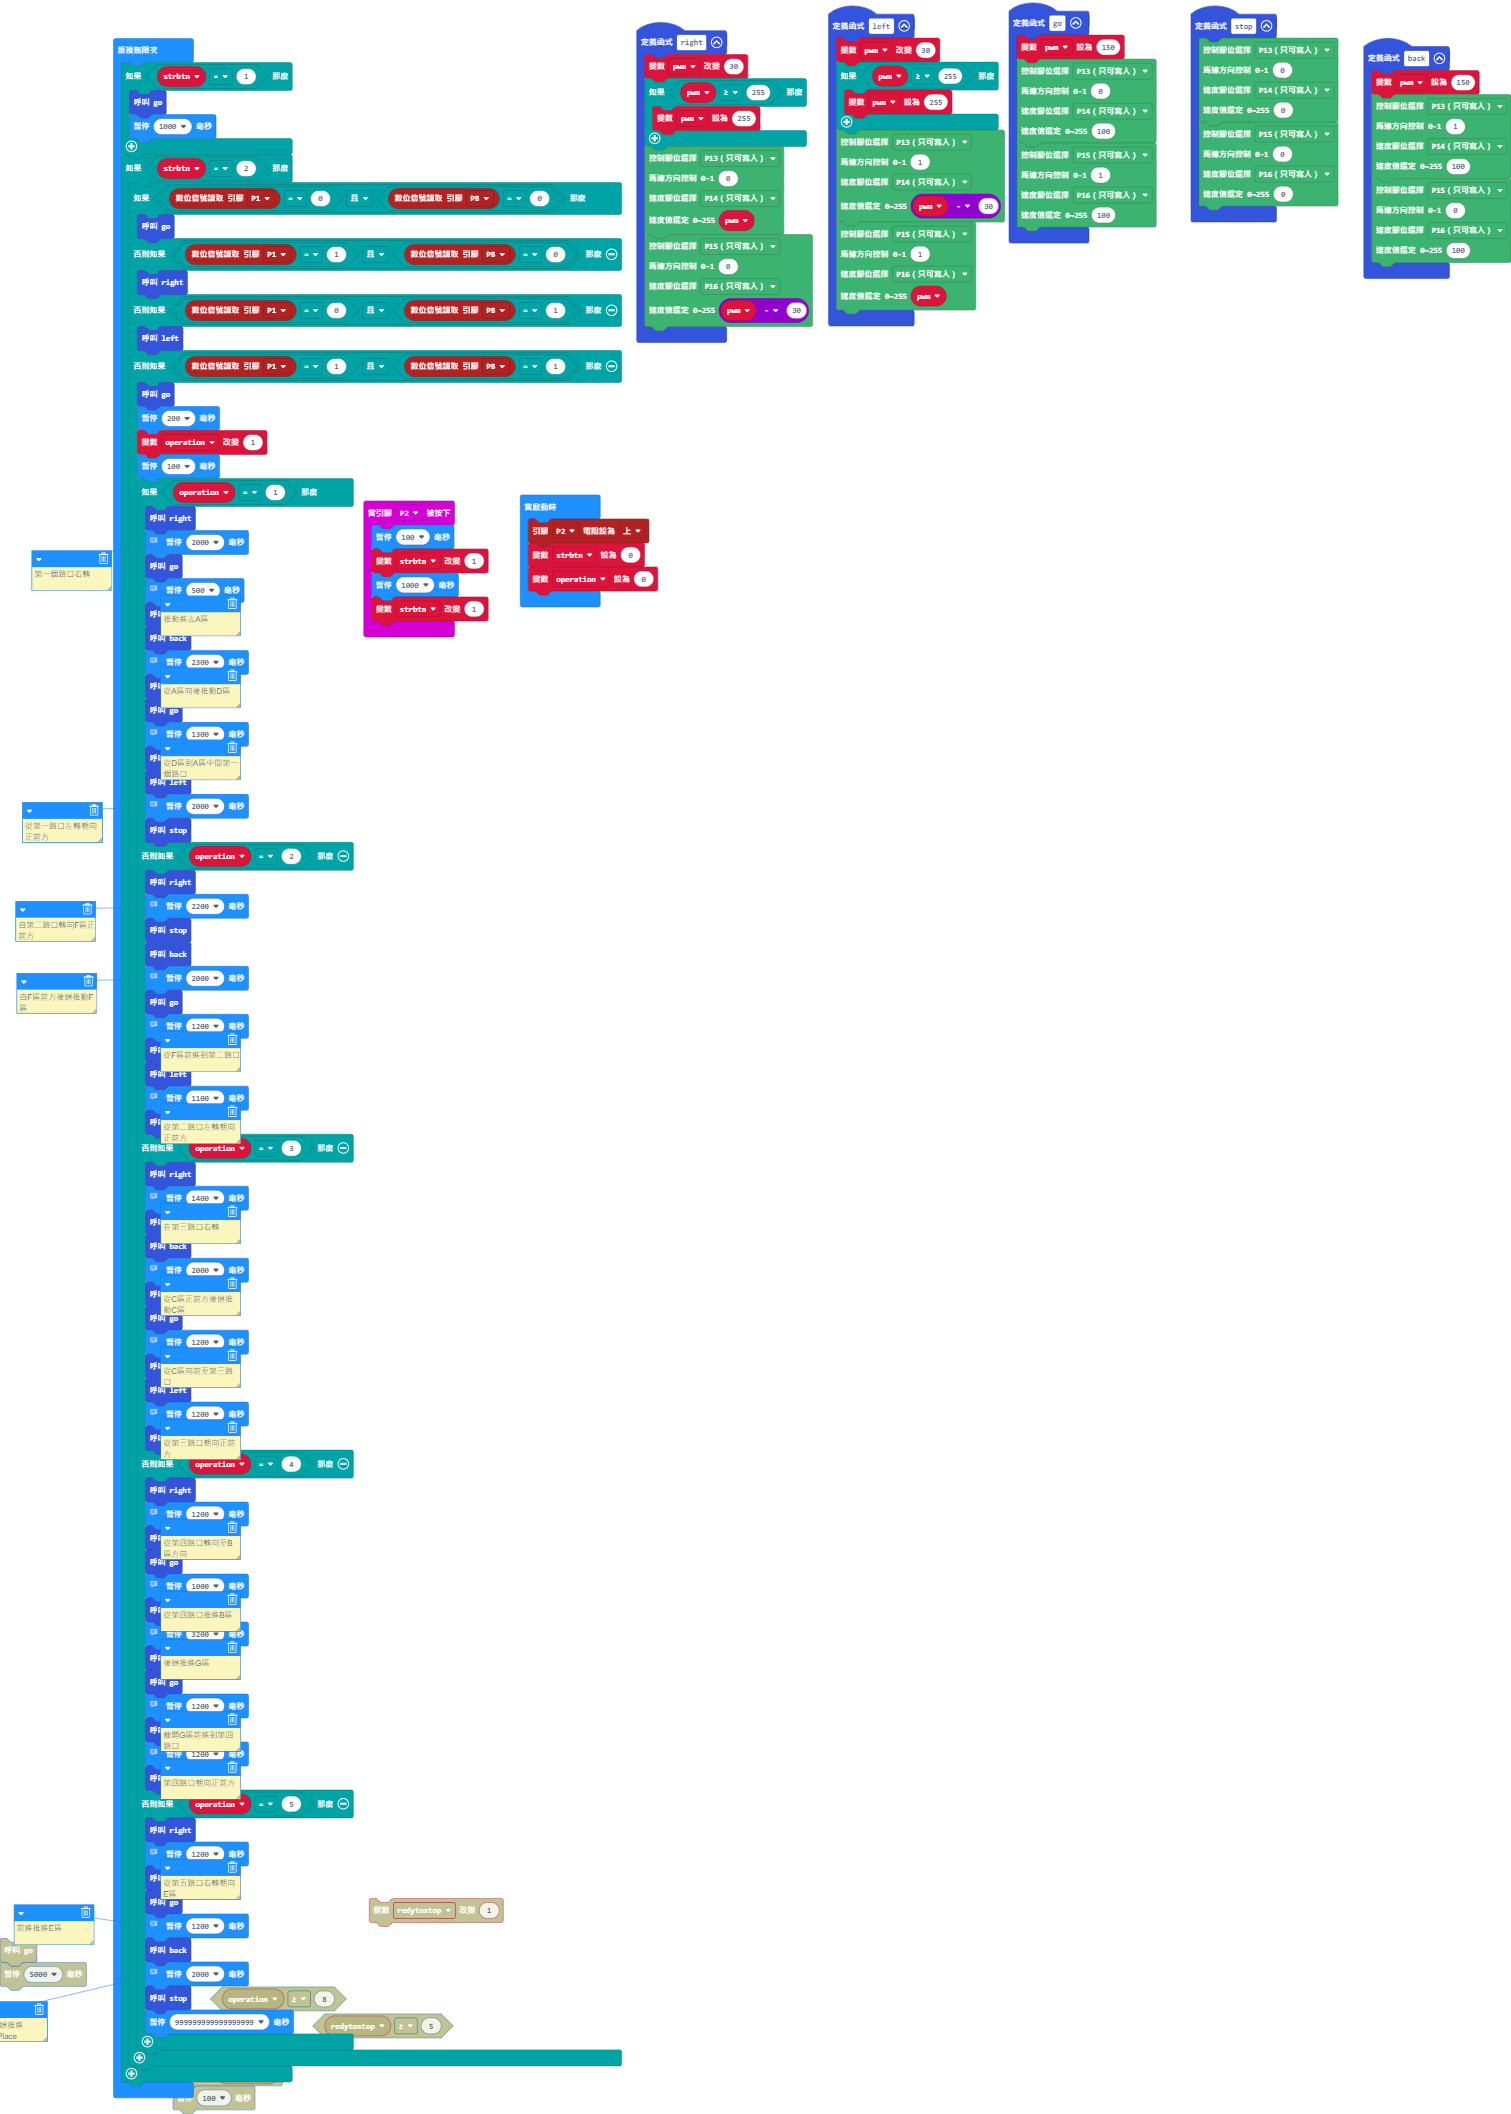
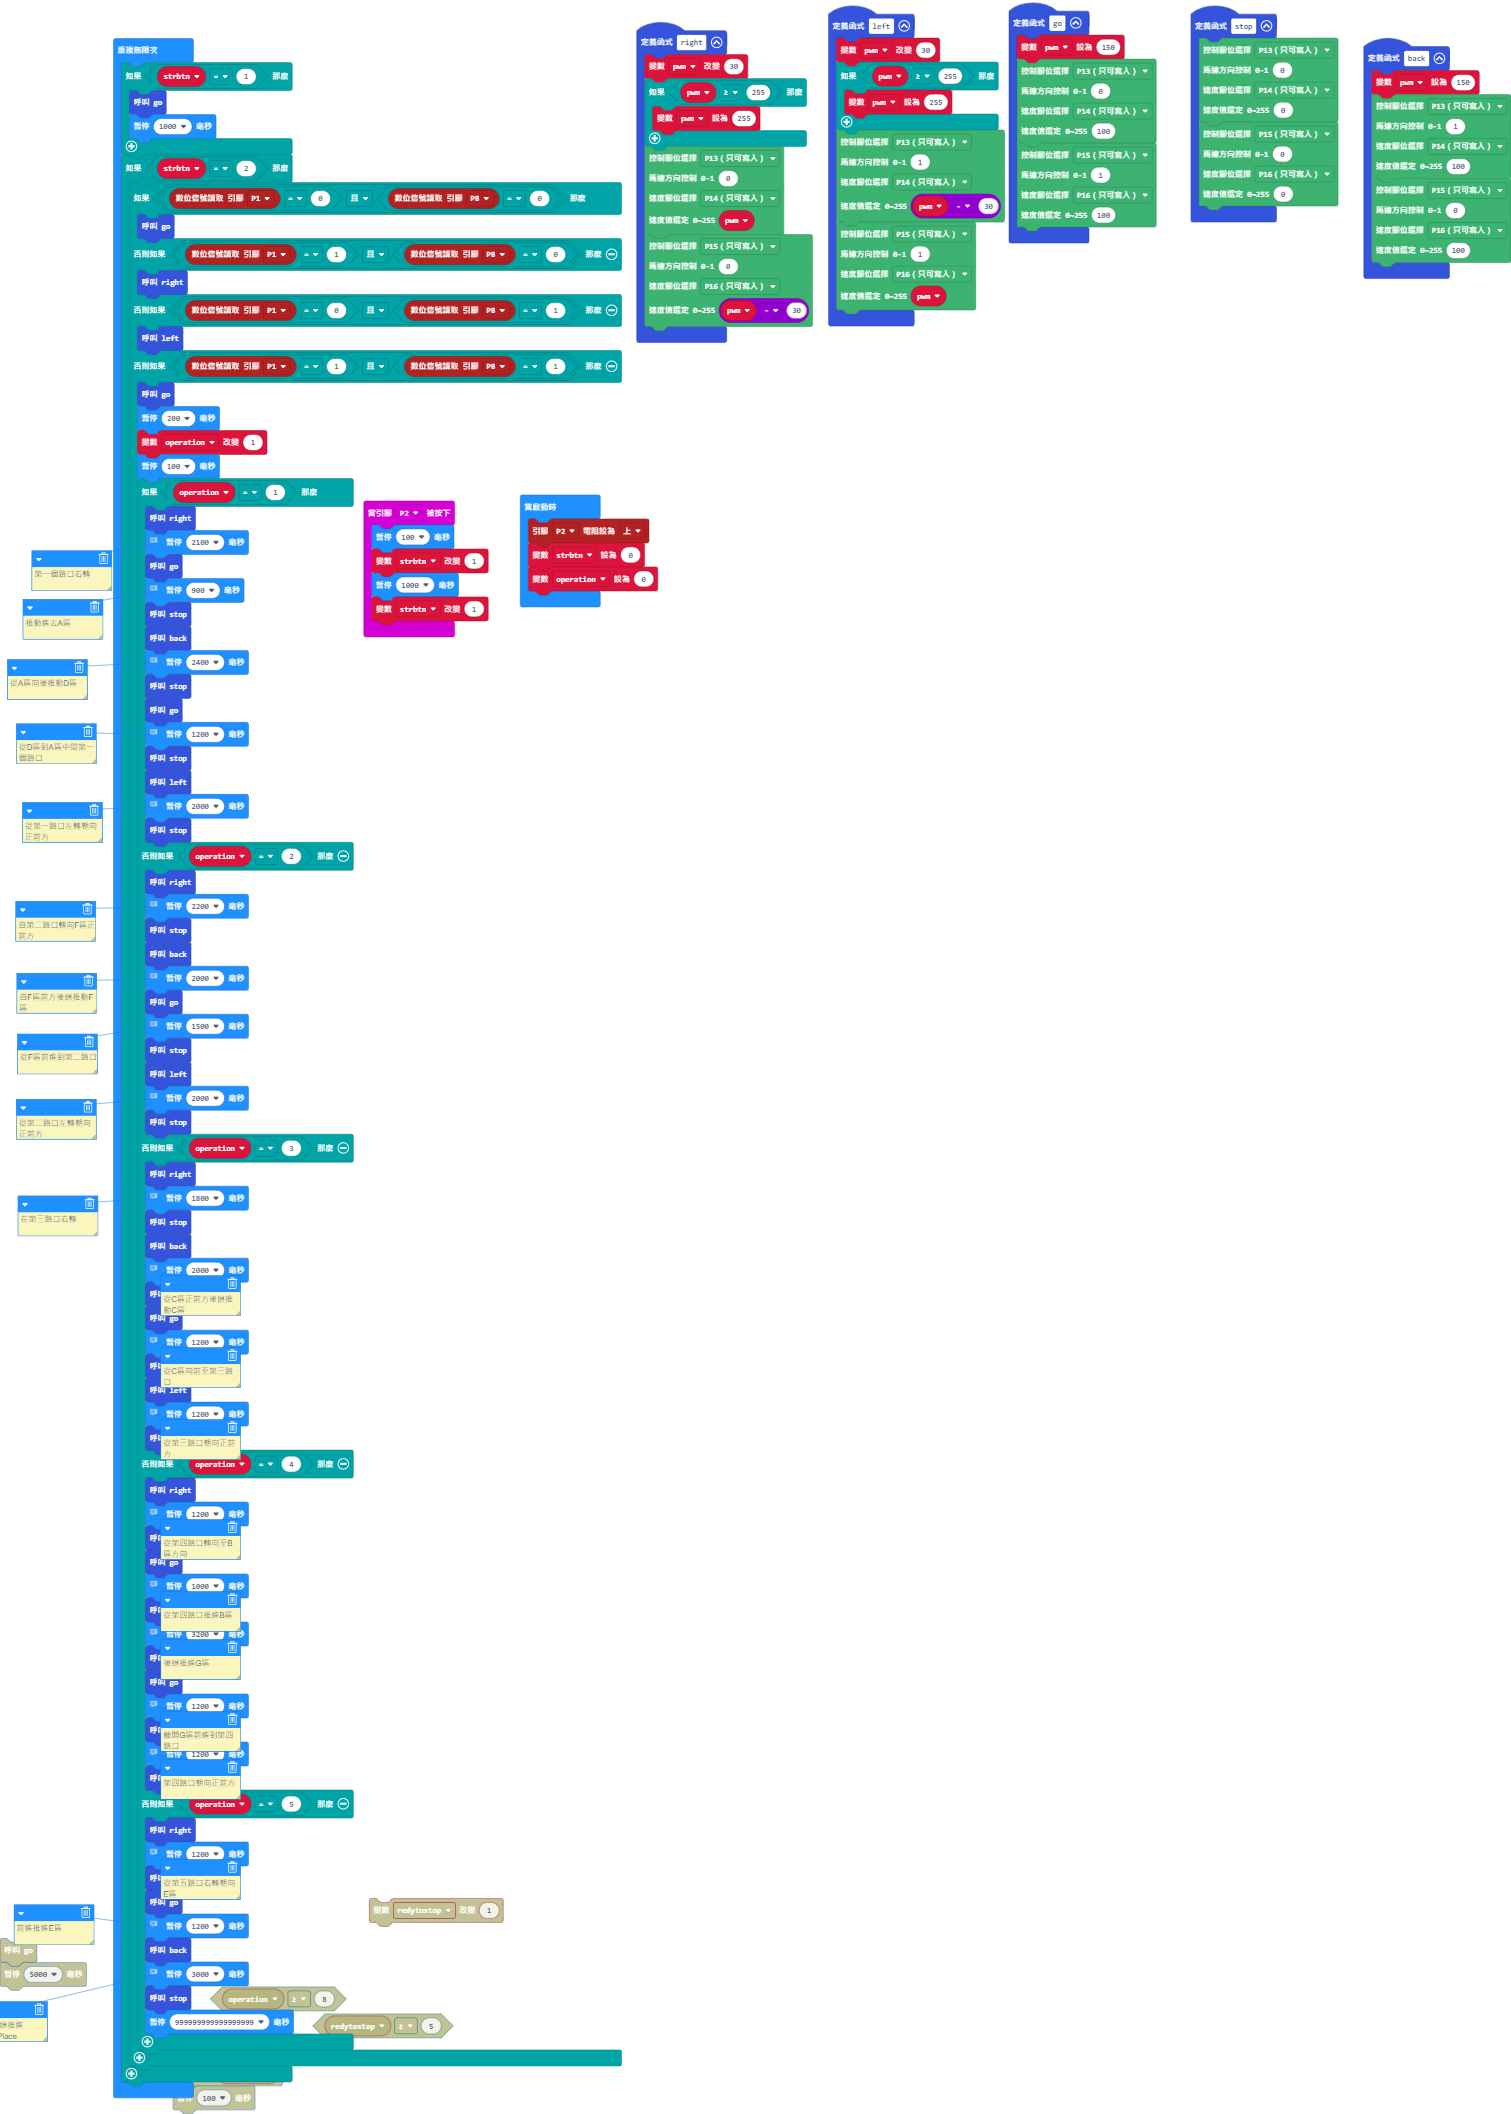
更新 main.blocks, main.ts

Changed region(s): [[0.0, 0.281, 0.1555, 0.3746], [0.0933, 0.4683, 0.1555, 0.5932], [0.0, 0.4683, 0.0622, 0.5932]]

diff --git a/main.ts b/main.ts
@@ -108,18 +108,18 @@ basic.forever(function () {
             if (operation == 1) {
                 right()
                 // 第一個路口右轉
-                basic.pause(2000)
+                basic.pause(2100)
                 go()
                 // 推動進去A區
-                basic.pause(500)
+                basic.pause(900)
                 stop()
                 back()
                 // 從A區向後推動D區
-                basic.pause(2300)
+                basic.pause(2400)
                 stop()
                 go()
                 // 從D區到A區中間第一個路口
-                basic.pause(1300)
+                basic.pause(1200)
                 stop()
                 left()
                 // 從第一路口左轉朝向正前方
@@ -135,16 +135,16 @@ basic.forever(function () {
                 basic.pause(2000)
                 go()
                 // 從F區前進到第二路口
-                basic.pause(1200)
+                basic.pause(1500)
                 stop()
                 left()
                 // 從第二路口左轉朝向正前方
-                basic.pause(1100)
+                basic.pause(2000)
                 stop()
             } else if (operation == 3) {
                 right()
                 // 在第三路口右轉
-                basic.pause(1400)
+                basic.pause(1800)
                 stop()
                 back()
                 // 從C區正前方後退推動C區
@@ -187,7 +187,7 @@ basic.forever(function () {
                 basic.pause(1200)
                 back()
                 // 從E區後退推進ParkingPlace
-                basic.pause(2000)
+                basic.pause(3000)
                 stop()
                 basic.pause(999999999999999999)
             }
